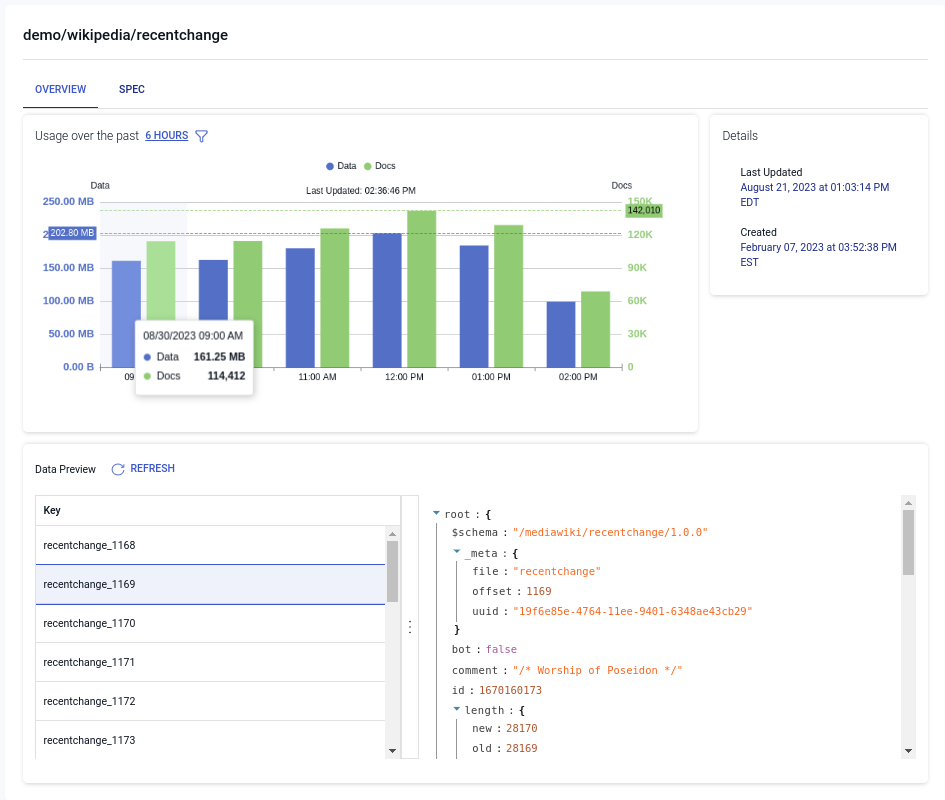
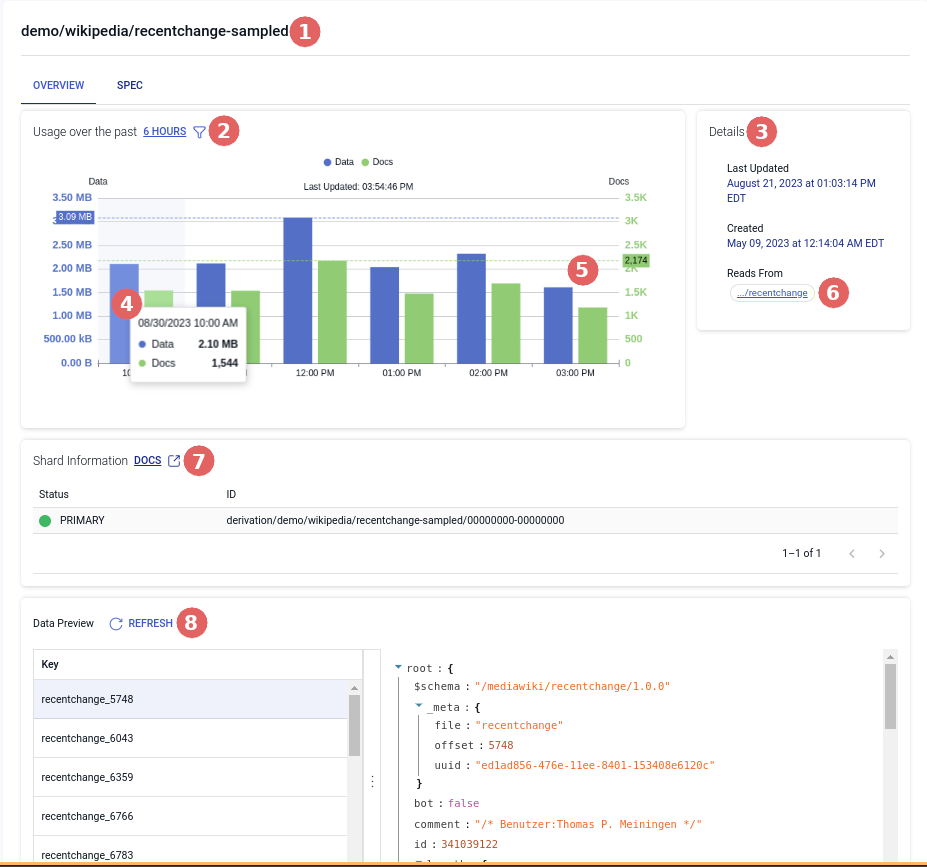
Adding annotations for the details page

diff --git a/site/docs/concepts/web-app.md b/site/docs/concepts/web-app.md
@@ -244,16 +244,19 @@ When you click on the **name** of a capture on the [captures page](#captures-pag
 
 ![](<./webapp-images/capture-details-page--overview.png>)
 
-The **Usage** section shows a chart of the data and documents being processed by the capture per hour. To see the specific detailed count of an hour hover over one of the bars. The most recent hour will update every 15 seconds, with the most recent data and docs.
-Click the time interval in the header to select from **6 hours**, **12 hours**, **24 hours**.
+**1:** Name of the capture.
 
-The **Details** section shows different pieces of information about the capture. When it was last updated, when it was created, the connector being used, and the associated collections.
+**2:** The **Usage** section shows a chart of the data and documents being processed by the capture per hour. The number of hours being displayed in the chart can be changed by clicking the time interval in the header to select from **6 hours**, **12 hours**, **24 hours**.
 
-:::tip
-The associated collections are like the table, they are links to the details of the collections.
-:::
+**3:** The **Details** section shows different pieces of information about the capture. When it was last updated, when it was created, the connector being used, and the collections to which the capture writes data. 
 
-The **Shard Information** section shows the full identifier of the shard(s) that back your capture. If there's an error, you'll see an alert identifying the failing shard(s). Use the drop-down to open an expanded view of the failed shard's logs.
+**4:** Detailed tooltip. You can hover over a section in the graph to see the specific data of that hour.
+
+**5:** The most recent hour. This will automatically update every 15 seconds with the most recent data and docs.
+
+**6:** Associated collections. Shows all the collections to which the capture writes data and when clicked will take you to the collection's [detail page](#collection-details-page)
+
+**7:** The **Shard Information** section shows the full identifier of the shard(s) that back your capture. If there's an error, you'll see an alert identifying the failing shard(s). Use the drop-down to open an expanded view of the failed shard's logs.
 
 ### Spec Tab
 ![](<./webapp-images/capture-details-page--spec.png>)
@@ -264,19 +267,25 @@ In the **Spec** tab, you can view the specification of the capture itself.
 
 When you click on the **name** of a collection on the [collections page](#collections-page) you will be taken to the collection details page to view data stats, sharding information, preview of data, and general details.
 
-
 ### Overview Tab
 
 ![](<./webapp-images/collection-details-page--overview.png>)
 
-The **Usage** section shows a chart of the data and documents processed by a collection (derivation) per hour. To see the specific detailed count of an hour, hover over one of the bars. The most recent hour will update every 15 seconds, with the most recent data and docs.
-Click the time interval in the header to select from **6 hours**, **12 hours**, **24 hours**.
+**1:** Name of the capture.
 
-The **Details** section shows different pieces of information about the collection. When it was last updated, when it was created, and the associated collections (if any).
+**2:** The **Usage** section shows a chart of the data and documents processed by a collection, that is a derivation, per hour. The number of hours being displayed in the chart can be changed by clicking the time interval in the header to select from **6 hours**, **12 hours**, **24 hours**.
 
-The **Shard Information** section (for derivations) shows the full identifier of the shard(s) that back your derivation. If there's an error, you'll see an alert identifying the failing shard(s). Use the drop-down to open an expanded view of the failed shard's logs.
+**3:** The **Details** section shows different pieces of information about the collection. When it was last updated, when it was created, and the associated collections (if any).
 
-The **Data Preview** section shows a sample of collection [documents](./collections.md#documents): the individual JSON files that comprise the collection.
+**4:** Detailed tooltip. You can hover over a section in the graph to see the specific data of that hour.
+
+**5:** The most recent hour. This will automatically update every 15 seconds with the most recent data and docs.
+
+**6:** Associated collections. Shows all the collections to which the capture writes data and when clicked will take you to the collection's [detail page](#collection-details-page)
+
+**7:** The **Shard Information** section (for derivations) shows the full identifier of the shard(s) that back your derivation. If there's an error, you'll see an alert identifying the failing shard(s). Use the drop-down to open an expanded view of the failed shard's logs.
+
+**8:** The **Data Preview** section shows a sample of collection [documents](./collections.md#documents): the individual JSON files that comprise the collection.
 Documents are organized by their collection key value. Click a key from the list to view its document.
 
 ### Spec Tab
@@ -294,16 +303,19 @@ When you click on the **name** of a materialization on the [materializations pag
 
 ![](<./webapp-images/materialization-details-page--overview.png>)
 
-The **Usage** section shows a chart of the data and documents being outputted by the materialization per hour. To see the specific detailed count of an hour hover over one of the bars. The most recent hour will update every 15 seconds, with the most recent data and docs.
-Click the time interval in the header to select from **6 hours**, **12 hours**, **24 hours**.
+**1:** Name of the capture.
 
-The **Details** section shows different pieces of information about the materialization. When it was last updated, when it was created, the connector being used, and the associated collections.
+**2:** The **Usage** section shows a chart of the data and documents processed by a materialization, per hour. The number of hours being displayed in the chart can be changed by clicking the time interval in the header to select from **6 hours**, **12 hours**, **24 hours**.
 
-:::tip
-The associated collections are like the table, they are links to the details of the collections.
-:::
+**3:** The **Details** section shows different pieces of information about the materialization. When it was last updated, when it was created, and the associated collections.
 
-The **Shard Information** section shows the full identifier of the shard(s) that back your materialization. If there's an error, you'll see an alert identifying the failing shard(s). Use the drop-down to open an expanded view of the failed shard's logs.
+**4:** Detailed tooltip. You can hover over a section in the graph to see the specific data of that hour.
+
+**5:** The most recent hour. This will automatically update every 15 seconds with the most recent data and docs.
+
+**6:** Associated collections. Shows all the collections to which the capture writes data and when clicked will take you to the collection's [detail page](#collection-details-page)
+
+**7:** The **Shard Information** section shows the full identifier of the shard(s) that back your materialization. If there's an error, you'll see an alert identifying the failing shard(s). Use the drop-down to open an expanded view of the failed shard's logs.
 
 ### Spec Tab
 ![](<./webapp-images/materialization-details-page--spec.png>)
